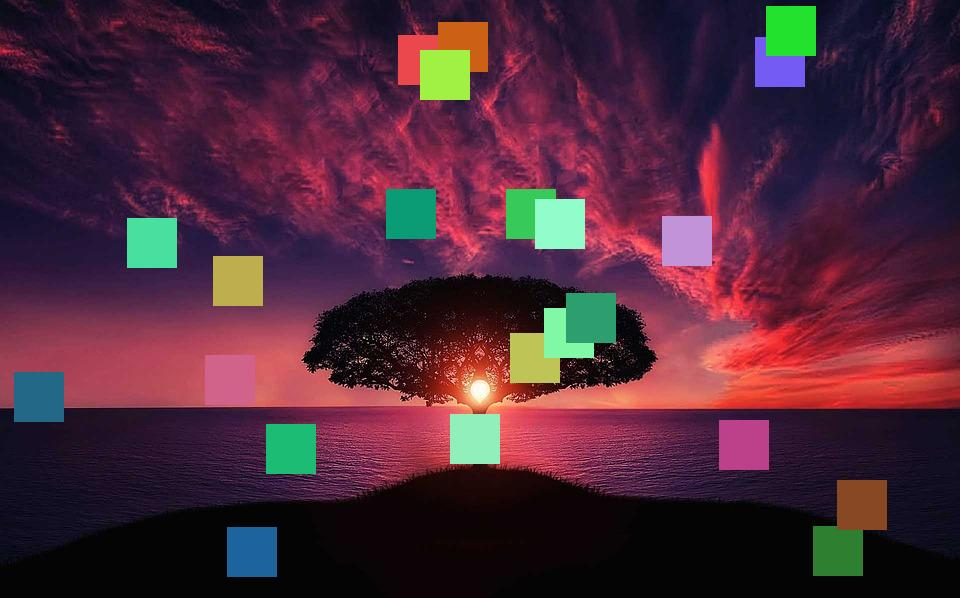
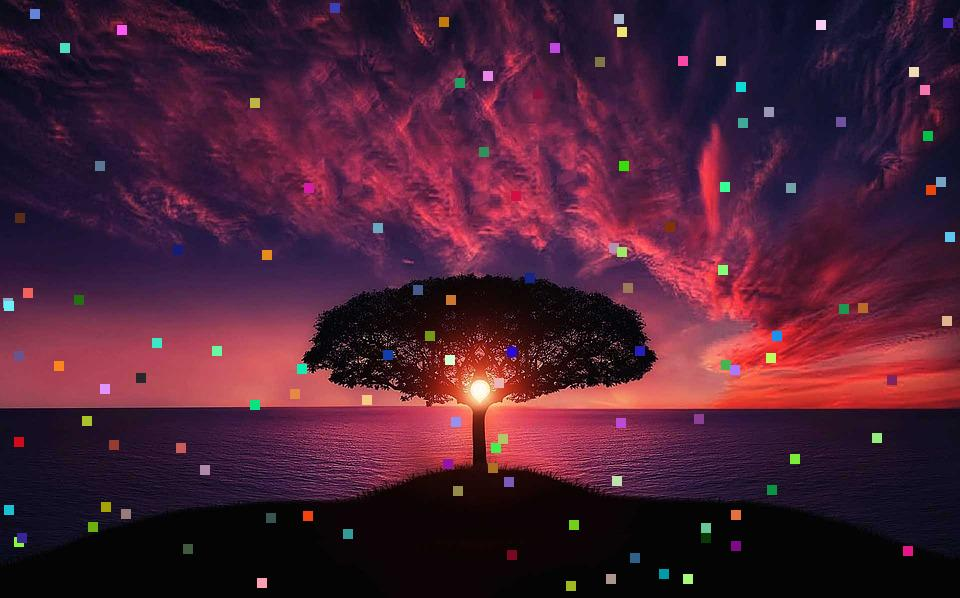
Refined code to specify size of box

diff --git a/custom.py b/custom.py
@@ -5,15 +5,15 @@ def polka_box(image_matrix):
     width = len(image_matrix[0])
     center_row = height // 2
     center_col = width // 2
-
-    
-    for i in range(random.randint(1,40)):
-        center_row = random.randint(25,height-24)
-        center_col = random.randint(25,width -24)
+    size_of_dot = 10
+    #random.randint(50,70)
+    for i in range(random.randint(100,150)):
+        center_row = random.randint((size_of_dot//2),height-(size_of_dot//2)-1)
+        center_col = random.randint((size_of_dot//2),width -(size_of_dot//2)-1)
     
         rand_color = (random.randint(0,255),random.randint(0,255),random.randint(0,255))
-        for row in range(center_row - 25, center_row + 25):
-            for col in range(center_col - 25, center_col + 25):
+        for row in range(center_row - (size_of_dot//2), center_row + (size_of_dot//2)):
+            for col in range(center_col - (size_of_dot//2), center_col + (size_of_dot//2)):
                 image_matrix[row][col] = rand_color
     return image_matrix
 
